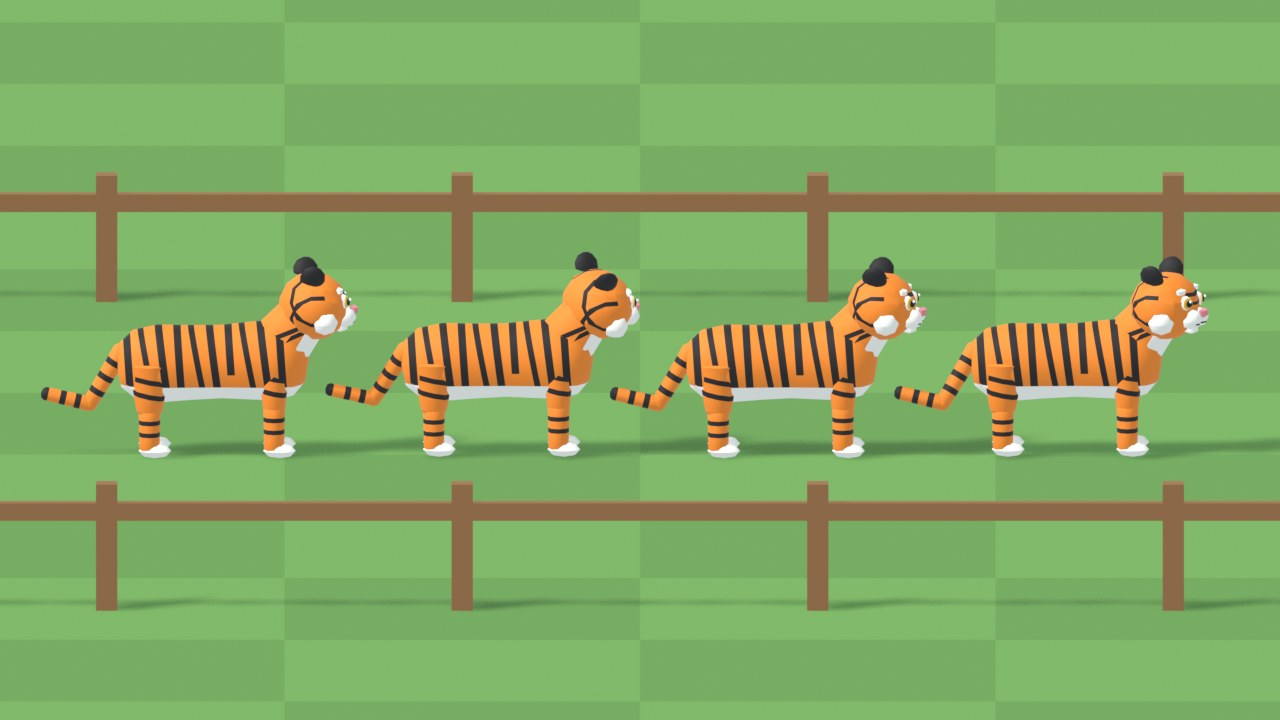
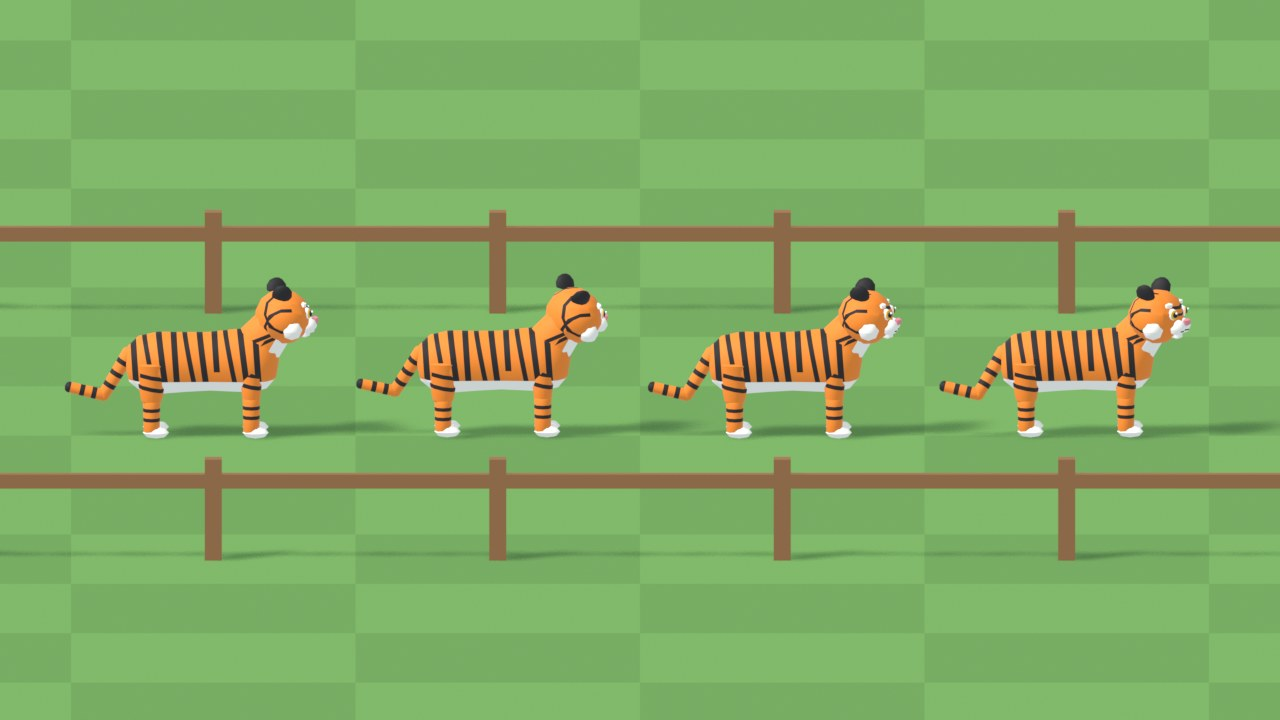
Add an expressive capybara to zoo-animals with idle, walk, feed and rest clips (#600)
The zoo_animals recipe gains a cartoon capybara: a chunky barrel on short
legs, a long blunt flat-topped head with a soft brown nose, small high eyes
under heavy relaxed lids, small ears and only a nub of a tail. Its clips are
a calm idle with a long blink, a short-legged waddle, head-down grazing and
a belly flop on folded legs. It ships as zoo.animal.capybara/expressive.

The review pose strips are now spaced by the animal's own length, so long,
low animals no longer overlap; the tiger's strips are refreshed.

Changed region(s): [[0.0, 0.2139, 1.0, 0.8556]]

diff --git a/test/blender/zoo-animals/zoo-animals.test.ts b/test/blender/zoo-animals/zoo-animals.test.ts
@@ -1,5 +1,5 @@
 // The zoo-animals release (#128, #589; docs/zoo-animals.md): Zoo's pinned zebra and giraffe stay as authored, and
-// the expressive zebra, giraffe, tiger and elephant built by adapters/blender/zoo_animals.py join them as the `expressive` variant, with in-place
+// the expressive zebra, giraffe, tiger, elephant and capybara built by adapters/blender/zoo_animals.py join them as the `expressive` variant, with in-place
 // idle, walk, feed and rest clips whose legs swing about the animal's side axis. The build replays to the same tar.
 // It skips unless ASSET_TOOLING_BLENDER names Blender 5.2.2 and the two canonical Zoo sources are hydrated.
 import test from "node:test";
@@ -35,7 +35,7 @@ test("the expressive spec runs the packaged recipe for one species, with no othe
   assert.deepEqual(spec.parameters, { blenderVersion: "5.2.2", arguments: { schemaVersion: 1, species: "zebra" } });
   assert.deepEqual(Object.keys(spec.inputs), ["script"]);
   assert.equal(spec.assetId, "zoo.animal.zebra.expressive");
-  assert.deepEqual(ZOO_EXPRESSIVE_ANIMALS.map((entry) => entry.key), ["zoo.animal.zebra", "zoo.animal.giraffe", "zoo.animal.tiger", "zoo.animal.elephant"]);
+  assert.deepEqual(ZOO_EXPRESSIVE_ANIMALS.map((entry) => entry.key), ["zoo.animal.zebra", "zoo.animal.giraffe", "zoo.animal.tiger", "zoo.animal.elephant", "zoo.animal.capybara"]);
 });
 
 /** Per animal: its full-size height and length (m), its triangle budget, one colour of its coat (linear COLOR_0) and any
@@ -45,6 +45,7 @@ const EXPECTED: Record<string, { height: [number, number]; length: [number, numb
   "zoo.animal.giraffe": { height: [3.2, 3.9], length: [1.9, 2.6], triangles: 6000, coat: "0.64,0.23", coatName: "the tan patches" },
   "zoo.animal.tiger": { height: [1.0, 1.5], length: [1.7, 2.5], triangles: 5500, coat: "0.91,0.23", coatName: "the orange coat" },
   "zoo.animal.elephant": { height: [1.9, 2.7], length: [2.6, 3.5], triangles: 5000, coat: "0.32,0.35", coatName: "the grey skin", joints: ["trunk", "trunk_tip"] },
+  "zoo.animal.capybara": { height: [0.6, 1.0], length: [1.2, 1.8], triangles: 3000, coat: "0.39,0.17", coatName: "the brown coat" },
 };
 
 /** The rotation axis of a quaternion in the leg's channel, or null when it barely turns. */
@@ -116,7 +117,7 @@ test("zoo-animals builds the old members unchanged and the expressive animals, r
     await verifyAssetBundleTar(await readFile(built.tar), { sha256: built.tarSha256, ref: built.exportRef });
     const manifest = (await verifyAssetBundle(built.bundleDir, built.exportRef, { profile: "gltf-resources-v1" })).manifest as GltfResourcesBundleManifest;
     assert.deepEqual(manifest.assets.map((item) => `${item.key}/${item.variant}`).sort(),
-      [`zoo.animal.elephant/${ZOO_EXPRESSIVE_VARIANT}`, "zoo.animal.giraffe/default", `zoo.animal.giraffe/${ZOO_EXPRESSIVE_VARIANT}`, `zoo.animal.tiger/${ZOO_EXPRESSIVE_VARIANT}`,
+      [`zoo.animal.capybara/${ZOO_EXPRESSIVE_VARIANT}`, `zoo.animal.elephant/${ZOO_EXPRESSIVE_VARIANT}`, "zoo.animal.giraffe/default", `zoo.animal.giraffe/${ZOO_EXPRESSIVE_VARIANT}`, `zoo.animal.tiger/${ZOO_EXPRESSIVE_VARIANT}`,
         "zoo.animal.zebra/default", `zoo.animal.zebra/${ZOO_EXPRESSIVE_VARIANT}`]);
 
     const descriptor = JSON.parse(await readFile(path.join(outDir, ZOO_ANIMALS_DESCRIPTOR_FILE), "utf8"));

diff --git a/scripts/build-zoo-animals.ts b/scripts/build-zoo-animals.ts
@@ -39,6 +39,7 @@ export const ZOO_EXPRESSIVE_ANIMALS = [
   { animal: "giraffe", key: "zoo.animal.giraffe", issue: 596 },
   { animal: "tiger", key: "zoo.animal.tiger", issue: 590 },
   { animal: "elephant", key: "zoo.animal.elephant", issue: 599 },
+  { animal: "capybara", key: "zoo.animal.capybara", issue: 600 },
 ] as const;
 export const ZOO_ANIMALS_RECIPE = "adapters/blender/zoo_animals.py";
 

diff --git a/adapters/blender/zoo_animals.py b/adapters/blender/zoo_animals.py
@@ -37,7 +37,7 @@ import bmesh
 import bpy
 from mathutils import Euler, Matrix, Quaternion, Vector
 
-SPECIES = ("zebra", "giraffe", "tiger", "elephant")
+SPECIES = ("zebra", "giraffe", "tiger", "elephant", "capybara")
 FPS = 30
 KEY_STEP = 2  # frames between keys; every key is linear
 SHARP_ANGLE = math.radians(50)
@@ -65,6 +65,10 @@ PALETTE = {
     "elephant-dark": (0.43, 0.45, 0.52),
     "toenail": (0.93, 0.9, 0.82),
     "tusk": (0.98, 0.96, 0.88),
+    "capy-brown": (0.66, 0.45, 0.28),
+    "capy-light": (0.76, 0.58, 0.4),
+    "capy-dark": (0.3, 0.2, 0.15),
+    "capy-nose": (0.45, 0.32, 0.26),
 }
 
 
@@ -665,7 +669,91 @@ def build_elephant(collection):
     return root
 
 
-BUILDERS = {"zebra": build_zebra, "giraffe": build_giraffe, "tiger": build_tiger, "elephant": build_elephant}
+# ---------------------------------------------------------------- capybara
+
+CAPYBARA = {
+    "body": (0.0, 0.0, 0.44), "neck": (0.36, 0.0, 0.5), "tail": (-0.5, 0.0, 0.5),
+    "hips": {"leg_0": (-0.3, -0.16, 0.34), "leg_1": (-0.3, 0.16, 0.34), "leg_2": (0.28, -0.15, 0.34), "leg_3": (0.28, 0.15, 0.34)},
+    "upper": 0.14, "foot": 0.036,
+    "neck_dir": (1, 0, 0.7), "neck_length": 0.15,
+}
+
+
+def build_capybara(collection):
+    g = CAPYBARA
+    root = bpy.data.objects.new("animal_root", None)
+    root.empty_display_size = 0.2
+    collection.objects.link(root)
+
+    # Body: a chunky, round barrel, the rump a little higher, with a lighter belly.
+    body = Part("body", g["body"])
+    barrel = [(0, -0.52), (0.18, -0.49), (0.27, -0.4), (0.31, -0.24), (0.31, 0.0), (0.3, 0.2), (0.27, 0.36), (0.18, 0.47), (0, 0.5)]
+    body.lathe("capy-brown", barrel, g["body"], direction=(1, 0, -0.04), scale=(0.95, 0.9, 1), segments=14)
+    body.paint("capy-brown", "capy-light", [((0, 0, 0.17), (0, 0, 1), 0.12)])
+    body = body.finish(collection, root)
+
+    # Legs: short and stout, on dark little feet.
+    for leg, hip in g["hips"].items():
+        hip = Vector(hip)
+        upper = Part(leg, hip)
+        upper.lathe("capy-brown", capsule(0.085, 0.065, g["upper"], cap=0.1), hip, segments=8)
+        upper = upper.finish(collection, body)
+        knee = hip - Vector((0, 0, g["upper"]))
+        lower = Part(f"{leg}_lower", knee)
+        lower.lathe("capy-brown", capsule(0.062, 0.055, knee.z - 0.08, 2), knee, segments=8)
+        lower.lathe("capy-dark", ball(0.06, 3), (knee.x + 0.025, knee.y, g["foot"]), scale=(1.35, 1.0, 0.55), segments=8)
+        lower.finish(collection, upper)
+
+    # Tail: capybaras have none to speak of, only a little nub at the rump.
+    tail = Part("tail", g["tail"])
+    tail.lathe("capy-brown", ball(0.05, 3), Vector(g["tail"]) + Vector((-0.02, 0, -0.02)), scale=(1, 1, 0.8), segments=8)
+    tail.finish(collection, body)
+
+    # Neck: short and thick, carrying the big head forwards.
+    neck_dir = Vector(g["neck_dir"]).normalized()
+    n0 = Vector(g["neck"])
+    neck = Part("neck", n0)
+    neck.lathe("capy-brown", capsule(0.16, 0.14, g["neck_length"], 3), n0, direction=-neck_dir, scale=(1, 0.95, 1), segments=12)
+    neck = neck.finish(collection, body)
+
+    # Head: long, blunt and flat-topped, almost a box, with a dark nose at the tip and small eyes set high under
+    # heavy, relaxed lids, which give the capybara its calm look. A lathe turned towards +X maps its local
+    # (X, Y, Z) scale to (height, width, length).
+    hp = n0 + neck_dir * g["neck_length"]
+    head = Part("head", hp)
+    skull = hp + Vector((0.19, 0, 0.04))
+    forward = Vector((1, 0, -0.12)).normalized()
+    head.lathe("capy-brown", ball(1.0, 5), skull, direction=forward, scale=(0.155, 0.15, 0.27), segments=8, spin=math.pi / 8)
+    head.lathe("capy-brown", ball(1.0, 4), skull + forward * 0.13 + Vector((0, 0, -0.04)), direction=forward,
+               scale=(0.115, 0.135, 0.155), segments=8, spin=math.pi / 8)  # the full, square muzzle
+    head.paint("capy-brown", "capy-nose", [(skull + forward * 0.275, forward, 0.036)], keep=lambda c: c.z > skull.z - 0.05)  # the nose
+    for side in (-1, 1):
+        head.lathe("eye-pupil", ball(0.014, 3), skull + forward * 0.268 + Vector((0, side * 0.035, 0.04)), scale=(1, 0.8, 0.6),
+                   segments=6)  # nostrils on top of the nose
+    head.lathe("capy-dark", [(0, 0), (0.018, 0), (0.018, 0.006), (0, 0.006)], skull + forward * 0.27 + Vector((0, 0, -0.1)),
+               direction=(1, 0, 0.3), scale=(0.5, 2.2, 1), segments=8)  # the mouth, a small line
+    head = head.finish(collection, neck)
+
+    for side, name in ((1, "left"), (-1, "right")):
+        base = skull + Vector((-0.16, side * 0.09, 0.1))  # sunk a little into the head, so the ear grows out of it
+        ear = Part(f"ear_{name}", base)
+        ear_dir = Vector((-0.2, side * 0.45, 1)).normalized()
+        ear.lathe("capy-dark", [(0, 0), (0.04, 0.005), (0.045, 0.03), (0.032, 0.055), (0, 0.06)], base, direction=ear_dir,
+                  scale=(1, 0.6, 1), segments=8)
+        ear.finish(collection, head)
+
+        eye_c = skull + Vector((0.02, side * 0.115, 0.088))
+        eye = Part(f"eye_{name}", eye_c)
+        look = Vector((0.45, side * 1.0, 0.25)).normalized()
+        eye.lathe("eye-pupil", ball(0.03, 4), eye_c, direction=look, scale=(1, 1, 0.8), segments=10)
+        eye.lathe("eye-white", ball(0.0075, 3), eye_c + look * 0.024 + Vector((0.006, 0, 0.004)), segments=6)
+        eye.lathe("capy-brown", ball(0.036, 4), eye_c + Vector((0, 0, 0.019)), direction=look, scale=(1, 1, 0.6), segments=10)  # the lid
+        eye.finish(collection, head)
+
+    return root
+
+
+BUILDERS = {"zebra": build_zebra, "giraffe": build_giraffe, "tiger": build_tiger, "elephant": build_elephant, "capybara": build_capybara}
 
 
 # ---------------------------------------------------------------- clips
@@ -698,8 +786,8 @@ def leg_cycle(u, front):
 
 
 # Lying down (rest): how far the body lowers, and the folded knee's centre above the grass, per species.
-LYING_DROP = {"zebra": -0.4, "giraffe": -1.1, "tiger": -0.3, "elephant": -0.6}
-KNEE_HEIGHT = {"zebra": 0.075, "giraffe": 0.1, "tiger": 0.14, "elephant": 0.26}
+LYING_DROP = {"zebra": -0.4, "giraffe": -1.1, "tiger": -0.3, "elephant": -0.6, "capybara": -0.12}
+KNEE_HEIGHT = {"zebra": 0.075, "giraffe": 0.1, "tiger": 0.14, "elephant": 0.26, "capybara": 0.09}
 
 
 def fold_legs(pose, hips, upper_length, drop, knee_height):
@@ -1066,11 +1154,86 @@ def elephant_rest(t, duration):
     return pose
 
 
+def capybara_idle(t, duration):
+    """The capybara's calm: slow breathing, a long contented blink, ear twitches and a nose wiggle."""
+    w = 2 * math.pi * t / duration
+    blink = min(1.0, pulse(t, 1.4, 1.1) * 1.4)
+    sniff = pulse(t, 3.6, 0.9) * math.sin(14 * w)
+    return {
+        "body.t": (0, 0, 0.004 * (1 - math.cos(2 * w))),
+        "body.r": (0, math.radians(0.8) * math.sin(2 * w), 0),
+        "neck.r": (0, math.radians(2) * math.sin(w), math.radians(4) * math.sin(w)),
+        "head.r": (math.radians(3) * math.sin(w + 1), math.radians(-3) * sniff, math.radians(8) * math.sin(w + 0.5)),
+        "ear_left.r": (math.radians(-30) * pulse(t, 0.7, 0.25), 0, 0),
+        "ear_right.r": (math.radians(30) * pulse(t, 2.9, 0.25) + math.radians(30) * pulse(t, 3.3, 0.25), 0, 0),
+        "eye_left.s": (1, 1, 1 - 0.85 * blink), "eye_right.s": (1, 1, 1 - 0.85 * blink),
+        "tail.r": (0, 0, 0),
+    }
+
+
+def capybara_walk(t, duration):
+    u = t / duration
+    pose = {}
+    phases = {"leg_1": 0.0, "leg_3": 0.25, "leg_0": 0.5, "leg_2": 0.75}
+    for leg, phase in phases.items():
+        swing, fold = leg_cycle((u + 1 - phase) % 1, leg in ("leg_2", "leg_3"))
+        pose[f"{leg}.r"] = (0, -swing * 1.3, 0)  # short legs take big swings
+        pose[f"{leg}_lower.r"] = (0, fold * 0.8, 0)
+    w = 2 * math.pi * u
+    pose.update({
+        "body.t": (0, 0, 0.006 + 0.005 * (1 - math.cos(2 * w))),
+        # a waddle: the round body rolls from side to side over the short legs
+        "body.r": (math.radians(4) * math.sin(w), math.radians(1) * math.sin(2 * w), math.radians(2) * math.sin(w)),
+        "neck.r": (math.radians(-2) * math.sin(w), math.radians(2) * math.sin(2 * w - 0.6), 0),
+        "head.r": (math.radians(-2) * math.sin(w), math.radians(-2) * math.sin(2 * w - 1.0), 0),
+        "ear_left.r": (0, 0, 0), "ear_right.r": (0, 0, 0),
+        "eye_left.s": (1, 1, 1), "eye_right.s": (1, 1, 1),
+        "tail.r": (0, 0, 0),
+    })
+    return pose
+
+
+def capybara_feed(t, duration):
+    """Grazing: the head down at the grass, munching steadily, an ear flick now and then."""
+    w = 2 * math.pi * t / duration
+    munch = math.sin(6 * w)
+    return {
+        "body.t": (0, 0, 0.003 * (1 - math.cos(w))),
+        "body.r": (0, 0, 0),
+        "neck.r": (0, math.radians(36), math.radians(5) * math.sin(w)),
+        "head.r": (math.radians(3) * munch, math.radians(28) + math.radians(3) * munch, math.radians(4) * math.sin(w)),
+        "ear_left.r": (math.radians(-25) * pulse(t, 1.0, 0.25), 0, 0),
+        "ear_right.r": (math.radians(25) * pulse(t, 2.4, 0.25), 0, 0),
+        "eye_left.s": (1, 1, 0.7), "eye_right.s": (1, 1, 0.7),
+        "tail.r": (0, 0, 0),
+    }
+
+
+def capybara_rest(t, duration):
+    """Flopped on its belly with the legs folded, the chin lowered, eyes shut, utterly relaxed."""
+    w = 2 * math.pi * t / duration
+    breath = 0.5 - 0.5 * math.cos(w)
+    drop = LYING_DROP["capybara"]
+    pose = {
+        "body.t": (0, 0, drop + 0.006 * breath),
+        "body.r": (0, 0, 0),
+        "neck.r": (0, math.radians(14) + math.radians(2) * breath, 0),
+        "head.r": (math.radians(-4), math.radians(8), math.radians(-6)),
+        "ear_left.r": (math.radians(-25) * pulse(t, 3.1, 0.25), 0, 0),
+        "ear_right.r": (0, 0, 0),
+        "eye_left.s": (1, 1, 0.08), "eye_right.s": (1, 1, 0.08),
+        "tail.r": (0, 0, 0),
+    }
+    fold_legs(pose, CAPYBARA["hips"], lambda leg: CAPYBARA["upper"], drop, KNEE_HEIGHT["capybara"])
+    return pose
+
+
 POSES = {
     "zebra": {"idle": (pose_idle, 4.0), "walk": (pose_walk, 1.2), "feed": (pose_feed, 3.0), "rest": (pose_rest, 5.0)},
     "giraffe": {"idle": (giraffe_idle, 5.0), "walk": (giraffe_walk, 1.6), "feed": (giraffe_feed, 3.0), "rest": (giraffe_rest, 6.0)},
     "tiger": {"idle": (tiger_idle, 5.0), "walk": (tiger_walk, 1.1), "feed": (tiger_feed, 3.0), "rest": (tiger_rest, 6.0)},
     "elephant": {"idle": (elephant_idle, 6.0), "walk": (elephant_walk, 1.5), "feed": (elephant_feed, 4.0), "rest": (elephant_rest, 6.0)},
+    "capybara": {"idle": (capybara_idle, 6.0), "walk": (capybara_walk, 0.9), "feed": (capybara_feed, 3.0), "rest": (capybara_rest, 6.0)},
 }
 
 

diff --git a/adapters/blender/zoo_animals_review.py b/adapters/blender/zoo_animals_review.py
@@ -134,7 +134,8 @@ def place(pose_id, location, yaw_degrees):
     bpy.context.view_layer.update()
     points = [o.matrix_world @ v.co for o in imported if o.type == "MESH" for v in o.data.vertices]
     height = max(p.z for p in points) - min(p.z for p in points)
-    return holder, imported, height
+    length = max(p.x for p in points) - min(p.x for p in points)
+    return holder, imported, height, length
 
 
 def arrange(holder, location, yaw_degrees, scale):
@@ -165,11 +166,12 @@ def shoot(scene, camera, name, target, distance, yaw=YAW, pitch=PITCH, ortho=Non
 
 def main():
     scene, camera = setup()
-    groups, heights = {}, {}
+    groups, heights, lengths = {}, {}, {}
     for pose in PLAN["poses"]:
-        holder, objects, height = place(pose["id"], (0, 0, 0), 0)
+        holder, objects, height, length = place(pose["id"], (0, 0, 0), 0)
         groups[pose["id"]] = (holder, objects)
         heights[pose["id"]] = height
+        lengths[pose["id"]] = length
     # one scale per animal, from its standing idle height
     scale_current = ZOO_HEIGHT / heights["current-idle"]
     scale_candidate = ZOO_HEIGHT / heights["idle-0"]
@@ -205,15 +207,16 @@ def main():
     centre = Vector([(max(p[i] for p in face) + min(p[i] for p in face)) / 2 for i in range(3)])
     shoot(scene, camera, "face.jpg", centre, 3.2 * size, yaw=118, pitch=10)  # framed by the head's own size
 
-    # Every clip's poses in a row, seen from the animal's right side.
+    # Every clip's poses in a row, seen from the animal's right side, spaced by the animal's own length.
+    step = max(0.8, 1.15 * lengths["idle-0"] * scale_candidate)
     for clip in ("idle", "walk", "feed", "rest"):
         ids = [p["id"] for p in PLAN["poses"] if p["clip"] == clip and p["id"].startswith(clip)]
         if clip == "walk":
             ids = ids[::2]
         for index, pose_id in enumerate(ids):
-            put(pose_id, (index * 0.8 - (len(ids) - 1) * 0.4, 0, 0), 0)
+            put(pose_id, (index * step - (len(ids) - 1) * step / 2, 0, 0), 0)
         show(groups, set(ids))
-        shoot(scene, camera, f"strip-{clip}.jpg", (0, 0, 0.27), 12, yaw=0, pitch=10, ortho=0.8 * len(ids) + 0.4)
+        shoot(scene, camera, f"strip-{clip}.jpg", (0, 0, 0.27), 12, yaw=0, pitch=10, ortho=step * len(ids) + 0.4)
 
     # A walk loop from the watch camera, as GIF frames.
     walk = [p["id"] for p in PLAN["poses"] if p["id"].startswith("walk-")]

diff --git a/docs/zoo-animals.md b/docs/zoo-animals.md
@@ -1,10 +1,10 @@
 # Expressive Zoo animals
 
-This is the recipe for Zoo's finished cartoon animals ([#589](https://github.com/moritzbrantner/asset-tooling/issues/589), consumer [zoo#112](https://github.com/moenarch-games/zoo/issues/112) and [zoo#142](https://github.com/moenarch-games/zoo/issues/142)). The animals are the **zebra**, the **giraffe**, the **tiger** and the **elephant**. The zebra and giraffe replace Zoo's deprecated generator output, whose zebra has a block body, a bear-like head and a walk that splays its legs sideways ([quadruped-rigid.md](quadruped-rigid.md#what-the-viewer-shows)).
+This is the recipe for Zoo's finished cartoon animals ([#589](https://github.com/moritzbrantner/asset-tooling/issues/589), consumer [zoo#112](https://github.com/moenarch-games/zoo/issues/112) and [zoo#142](https://github.com/moenarch-games/zoo/issues/142)). The animals are the **zebra**, the **giraffe**, the **tiger**, the **elephant** and the **capybara**. The zebra and giraffe replace Zoo's deprecated generator output, whose zebra has a block body, a bear-like head and a walk that splays its legs sideways ([quadruped-rigid.md](quadruped-rigid.md#what-the-viewer-shows)).
 
 - **Source:** [`adapters/blender/zoo_animals.py`](../adapters/blender/zoo_animals.py), an original scripted Blender recipe in this repository. It has no imported meshes, no third-party assets, no textures and no randomness. Zoo's generator is not ported.
 - **Rig:** the shared [`quadruped-rigid`](quadruped-rigid.md) profile. Named transform nodes pivot at their joints and rigid parts hang under them, with no skin.
-- **Release:** the existing rolling `zoo-animals` release, as the variant `expressive` of the keys `zoo.animal.zebra`, `zoo.animal.giraffe`, `zoo.animal.tiger` and `zoo.animal.elephant`. Zoo's own zebra and giraffe stay unchanged as the `default` variant, so a consumer of a `default` member sees the same model.
+- **Release:** the existing rolling `zoo-animals` release, as the variant `expressive` of the keys `zoo.animal.zebra`, `zoo.animal.giraffe`, `zoo.animal.tiger`, `zoo.animal.elephant` and `zoo.animal.capybara`. Zoo's own zebra and giraffe stay unchanged as the `default` variant, so a consumer of a `default` member sees the same model.
 
 ## Build
 
@@ -120,6 +120,26 @@ The length includes the trunk and the width the fanned ears.
 
 The amble keeps the body about 4 cm higher than standing, because the wide foot pads tip their rims down as they swing. The Zoo activity mapping is the zebra's.
 
+## The capybara
+
+The fifth animal ([#600](https://github.com/moritzbrantner/asset-tooling/issues/600)) is new to the release as well: `zoo.animal.capybara` has only the `expressive` variant.
+
+| Key / variant | Size (L × H × W, m) | Triangles | Parts | Materials |
+| --- | --- | --- | --- | --- |
+| `zoo.animal.capybara` / `expressive` | 1.52 × 0.78 × 0.54 | 1,780 | 16 | 1 |
+
+- **Look:** a chunky round barrel with a lighter belly on short stout legs with dark little feet, a short neck and a long, blunt, flat-topped head: an octagonal, almost boxy skull and a full square muzzle with a soft brown nose, nostrils on top and a small mouth line. Small dark ears sit on top at the back, and the small eyes set high on the sides under heavy, relaxed lids give it its calm look. The tail is only a nub, as a capybara's is.
+- **Clips:**
+
+| Clip | Seconds | What it shows |
+| --- | --- | --- |
+| `idle` | 6.0 | Slow breathing, a long contented blink, ear twitches, a sniff with a nose wiggle and a slow look around |
+| `walk` | 0.9 | A short-legged waddle: big leg swings for the short legs (still about the side axis only) and the round body rolling from side to side |
+| `feed` | 3.0 | Grazing with the head down at the grass, munching steadily, an ear flick now and then |
+| `rest` | 6.0 | Flopped on its belly with the short legs folded (`fold_legs`), the chin lowered, eyes shut |
+
+The Zoo activity mapping is the zebra's.
+
 ## Conventions
 
 These are the conventions of the existing `zoo-animals` members: metres, +Y up, right-handed, the animal faces **+X** and its right side is +Z, and the origin is on the ground plane under the body. The asset is presentation only; Zoo owns placement, scale, activity, gameplay and physics.
@@ -150,15 +170,16 @@ ASSET_TOOLING_BLENDER=<blender 5.2.2> bun scripts/review-zoo-animals.ts --bundle
 ASSET_TOOLING_BLENDER=<blender 5.2.2> bun scripts/review-zoo-animals.ts --bundle .artifacts/zoo-animals/bundle --key zoo.animal.giraffe --compare zoo.animal.giraffe/default --out .artifacts/zoo-review-giraffe
 ASSET_TOOLING_BLENDER=<blender 5.2.2> bun scripts/review-zoo-animals.ts --bundle .artifacts/zoo-animals/bundle --key zoo.animal.tiger --compare zoo.animal.zebra/expressive --out .artifacts/zoo-review-tiger
 ASSET_TOOLING_BLENDER=<blender 5.2.2> bun scripts/review-zoo-animals.ts --bundle .artifacts/zoo-animals/bundle --key zoo.animal.elephant --compare zoo.animal.zebra/expressive --out .artifacts/zoo-review-elephant
+ASSET_TOOLING_BLENDER=<blender 5.2.2> bun scripts/review-zoo-animals.ts --bundle .artifacts/zoo-animals/bundle --key zoo.animal.capybara --compare zoo.animal.zebra/expressive --out .artifacts/zoo-review-capybara
 ```
 
-The zebra images are in [`review/zoo-animals/`](../review/zoo-animals/), and each later animal's in its own folder, `review/zoo-animals/<species>/`. The giraffe stands beside Zoo's current giraffe; the tiger and elephant, which Zoo has no model of, beside the expressive zebra for scale:
+The zebra images are in [`review/zoo-animals/`](../review/zoo-animals/), and each later animal's in its own folder, `review/zoo-animals/<species>/`. The giraffe stands beside Zoo's current giraffe; the tiger, elephant and capybara, which Zoo has no model of, beside the expressive zebra for scale:
 
 - `park.jpg` and `watch.jpg`: an enclosure with the expressive animal idling, walking, feeding and resting, beside Zoo's current one, at a park distance (22 m) and a close animal-watch distance (6.5 m);
 - `orbit-front.jpg` and `orbit-back.jpg`: two more orbit angles;
 - `compare.jpg`: the current (or compared) and expressive animal side by side;
 - `face.jpg`: the expressive animal's face, close up from three-quarters front;
-- `strip-idle.jpg`, `strip-walk.jpg`, `strip-feed.jpg` and `strip-rest.jpg`: the initial and intermediate poses of each clip (four phases, or every second of the walk's 12), from the side;
+- `strip-idle.jpg`, `strip-walk.jpg`, `strip-feed.jpg` and `strip-rest.jpg`: the initial and intermediate poses of each clip (four phases, or every second of the walk's 12), from the side, spaced by the animal's length;
 - `walk.gif`: the walk loop from the watch camera.
 
 They are evidence for the owner's review. Visual approval stays with the owner and with Zoo's own acceptance in a real habitat ([zoo#112](https://github.com/moenarch-games/zoo/issues/112), [zoo#142](https://github.com/moenarch-games/zoo/issues/142)).
